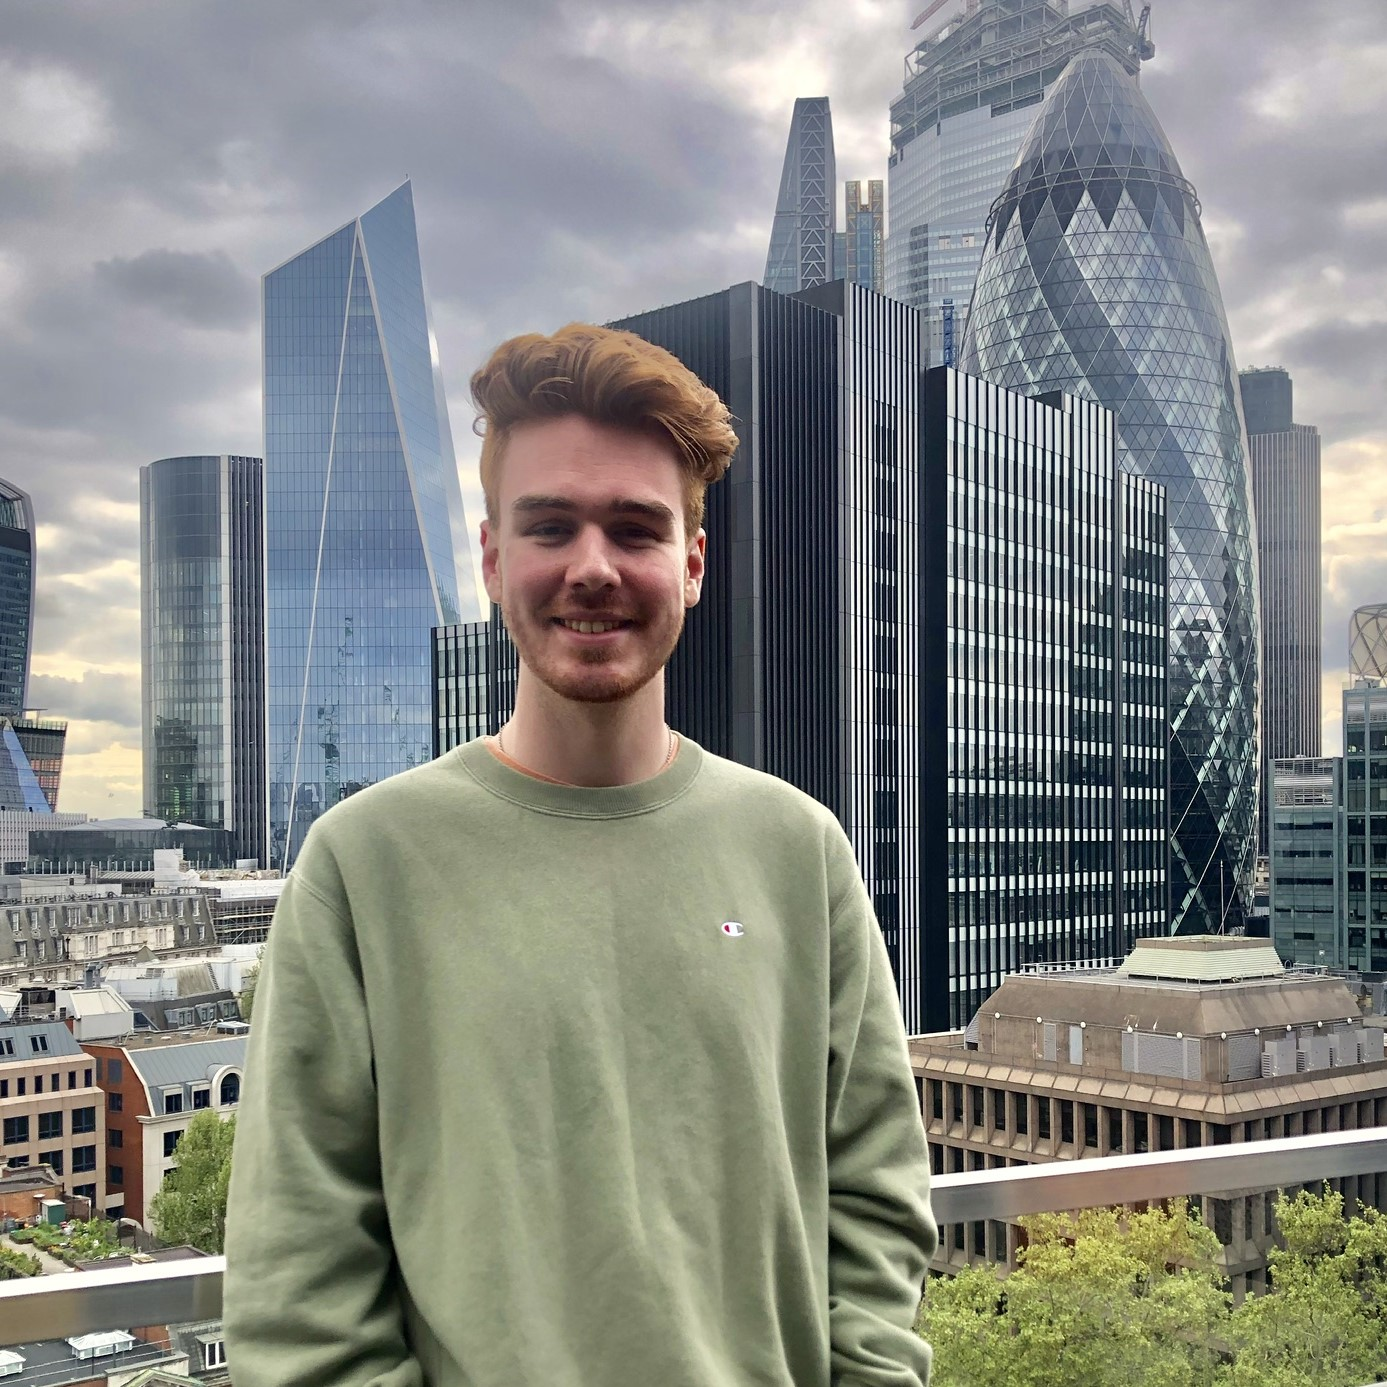
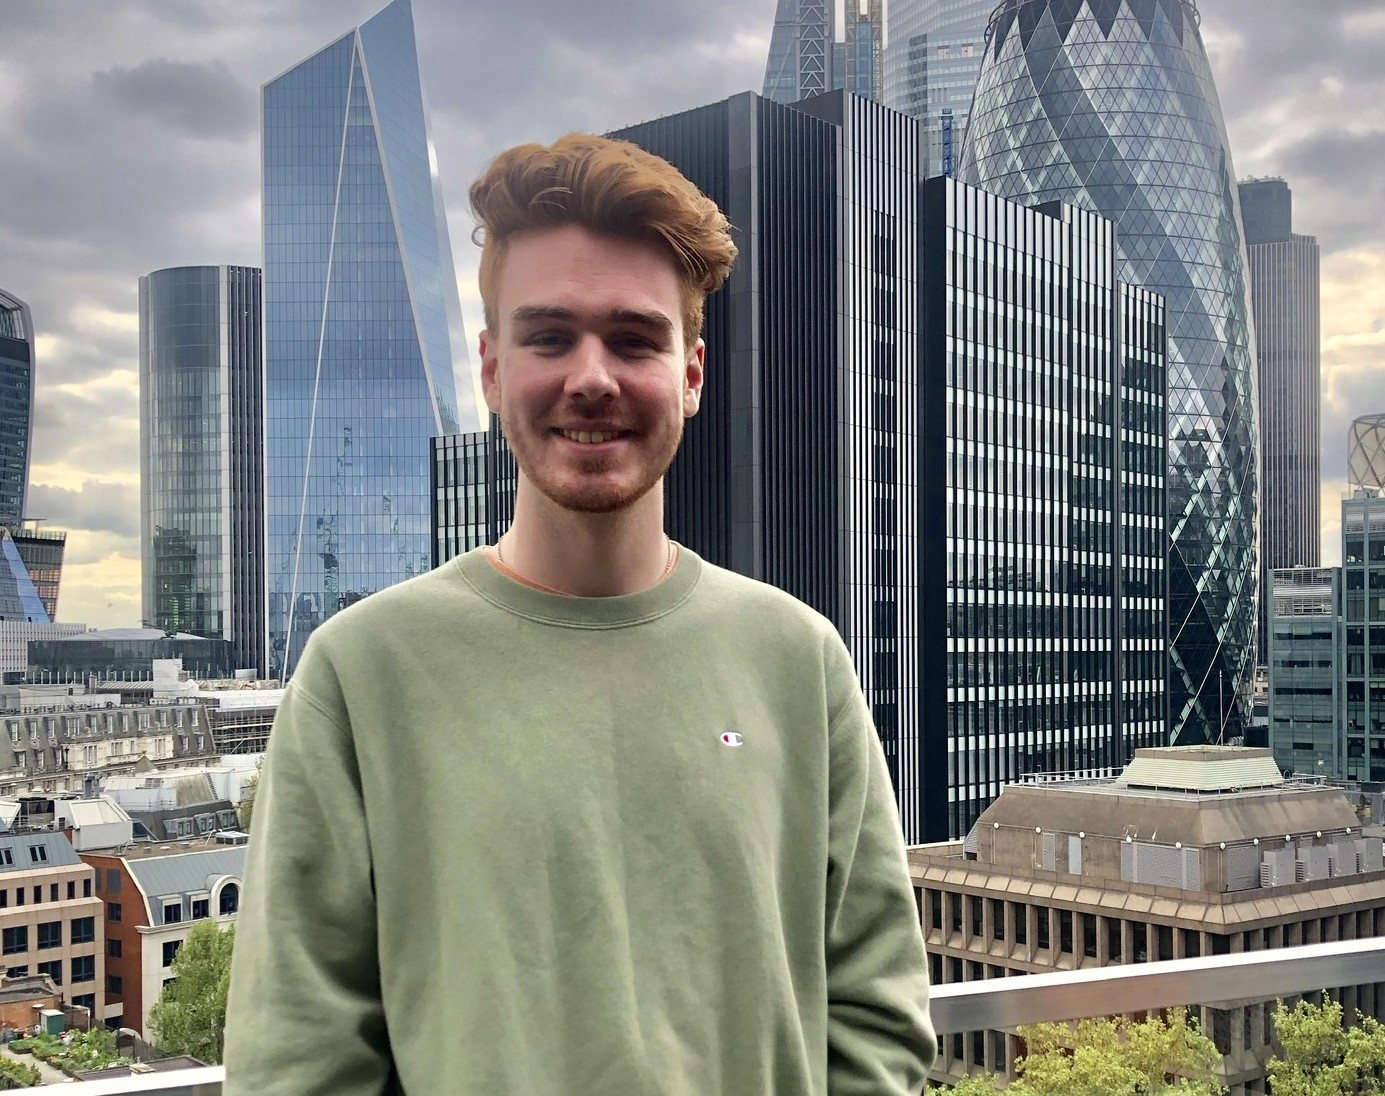
Started on update portfolio

diff --git a/index.html b/index.html
@@ -1,94 +1,20 @@
 <html lang="en">
+    <head>
+        <meta charset="utf-8">
+        <title>Anthony Sturdy</title>
+        <meta name="description" content="Anthony Sturdy is a Games Programming student from the UK.">
+        <meta name="keywords" content="Anthony Sturdy, Programmer, Game Developer, UK, England, Staffordshire University, Games">
+        <link rel="canonical" href="http://anthonysturdy.co.uk/">
+        <link href="index.css" rel="stylesheet" type="text/css">
+    </head>
 
-<head>
-    <meta charset="utf-8">
-    <title>Anthony Sturdy</title>
-    <meta name="description" content="Anthony Sturdy is a Games Programming student from the UK.">
-    <meta name="keywords" content="Anthony Sturdy, Programmer, Game Developer, UK, England, Staffordshire University, Games">
-    <link rel="canonical" href="http://anthonysturdy.co.uk/">
-    <link rel="shortcut icon" href="favicon.ico" type="image/ico" id="favicon">
-    <link href="style.css" rel="stylesheet" type="text/css">
-    <script src="https://ajax.googleapis.com/ajax/libs/jquery/3.4.0/jquery.min.js"></script>
-    <script type="text/javascript" src="scripts.js"></script>
-</head>
-
-<body>
-    <div class="box_line_number"></div>
-    <div class="line_number">
-    	1<br>2<br>3<br>4<br>5<br>6<br>7<br>8<br>9<br>10<br>11<br>12<br>13<br>14<br>15<br>16<br>17<br>18<br>19<br>20<br>21<br>22<br>23<br>24<br>25<br>26<br>27<br>28<br>29<br>30<br>31<br>32<br>33<br>34<br>35<br>36<br>37<br>38<br>39<br>40<br>41<br>42<br>43<br>44<br>45<br>46<br>47<br>48<br>49<br>50<br>51
-    </div>
-    <br>
-    <br>
-    <br>
-    <br>
-    <div class="line_pos_home">
-        <div class="box_highlighted_line"></div>
-    </div>
-    <div class="comment">
-        //Anthony Sturdy
-        <br>
-    </div>
-    <div class="function">
-        <br>
-        <br>
-        <div class="type">class</div><strong> Website</strong><span> {</span>
-        <br>
-        <div class="type">public</div><span>:</span>
-        <div class="tabbed">
-            <div class="type">void</div> <a href="about.html">About</a><span>();</span>
-            <br>
-            <div class="type">void</div> <a href="contact.html">Contact</a><span>();</span>
-            <br>
-            <div class="type">void</div> <a href="portfolio.html">Portfolio</a><span>();</span>
+    <body>
+        <div class = "intro-text">
+            <span style="font-size: 25px; font-weight: 400; color: rgb(200, 200, 200);">Hi.</span><br>
+            <span>I'm Anthony Sturdy,</span><br>
+            <span style="font-size: 41px; font-weight: 400; color: rgb(200, 200, 200);">a games programming student.</span><br>
         </div>
-        <span>}</span>
-    </div>
 
-    <div class="comment">
-        <br>
-        <br>
-        <br>
-        <br>
-        <br>
-        <br>
-        <br>
-        <br>
-        <br>
-        <br>
-        <br>
-        <br>
-        <br>
-        <br>
-        <br>
-        <br>
-        <br>
-        <br>
-        <br>
-        <br>
-        <br>
-        <br>
-        <br>
-        <br>
-        <br>
-        <br>
-        <br>
-        <br>
-        <br>
-        <br>
-        <br>
-        <br>
-        <br>
-        <br>
-        <br>
-        <br>
-        <br>
-        <br>
-        <br>
-        <br>
-        <br>
-        <br>//Copyright Anthony Sturdy © 2019
-        <br>
-    </div>
-</body>
-
+        <img class="intro-picture" src="Images/AnthonySturdy1.jpg">
+    </body>
 </html>

diff --git a/alt-site/index.html b/alt-site/index.html
@@ -1,0 +1,94 @@
+<html lang="en">
+
+<head>
+    <meta charset="utf-8">
+    <title>Anthony Sturdy</title>
+    <meta name="description" content="Anthony Sturdy is a Games Programming student from the UK.">
+    <meta name="keywords" content="Anthony Sturdy, Programmer, Game Developer, UK, England, Staffordshire University, Games">
+    <link rel="canonical" href="http://anthonysturdy.co.uk/">
+    <link rel="shortcut icon" href="favicon.ico" type="image/ico" id="favicon">
+    <link href="style.css" rel="stylesheet" type="text/css">
+    <script src="https://ajax.googleapis.com/ajax/libs/jquery/3.4.0/jquery.min.js"></script>
+    <script type="text/javascript" src="scripts.js"></script>
+</head>
+
+<body>
+    <div class="box_line_number"></div>
+    <div class="line_number">
+    	1<br>2<br>3<br>4<br>5<br>6<br>7<br>8<br>9<br>10<br>11<br>12<br>13<br>14<br>15<br>16<br>17<br>18<br>19<br>20<br>21<br>22<br>23<br>24<br>25<br>26<br>27<br>28<br>29<br>30<br>31<br>32<br>33<br>34<br>35<br>36<br>37<br>38<br>39<br>40<br>41<br>42<br>43<br>44<br>45<br>46<br>47<br>48<br>49<br>50<br>51
+    </div>
+    <br>
+    <br>
+    <br>
+    <br>
+    <div class="line_pos_home">
+        <div class="box_highlighted_line"></div>
+    </div>
+    <div class="comment">
+        //Anthony Sturdy
+        <br>
+    </div>
+    <div class="function">
+        <br>
+        <br>
+        <div class="type">class</div><strong> Website</strong><span> {</span>
+        <br>
+        <div class="type">public</div><span>:</span>
+        <div class="tabbed">
+            <div class="type">void</div> <a href="about.html">About</a><span>();</span>
+            <br>
+            <div class="type">void</div> <a href="contact.html">Contact</a><span>();</span>
+            <br>
+            <div class="type">void</div> <a href="portfolio.html">Portfolio</a><span>();</span>
+        </div>
+        <span>}</span>
+    </div>
+
+    <div class="comment">
+        <br>
+        <br>
+        <br>
+        <br>
+        <br>
+        <br>
+        <br>
+        <br>
+        <br>
+        <br>
+        <br>
+        <br>
+        <br>
+        <br>
+        <br>
+        <br>
+        <br>
+        <br>
+        <br>
+        <br>
+        <br>
+        <br>
+        <br>
+        <br>
+        <br>
+        <br>
+        <br>
+        <br>
+        <br>
+        <br>
+        <br>
+        <br>
+        <br>
+        <br>
+        <br>
+        <br>
+        <br>
+        <br>
+        <br>
+        <br>
+        <br>
+        <br>//Copyright Anthony Sturdy © 2019
+        <br>
+    </div>
+</body>
+
+</html>

diff --git a/index.css b/index.css
@@ -1,0 +1,31 @@
+/* Import Fonts */
+@import url('https://fonts.googleapis.com/css?family=Lato:400,900&display=swap');
+
+p {
+    margin: 0px;
+}
+
+body { 
+    background-color: rgb(10, 10, 10);
+    color: rgb(255, 255, 245);
+}
+
+.intro-text {
+    font-family: 'Lato', sans-serif;
+    font-size: 60px;
+    font-weight: 900;
+    position: relative;
+    left: 10%;
+    top: 280px;
+    padding: 15px;
+    background-color: rgb(23, 23, 23);
+    width: 550px;
+}
+
+.intro-picture {
+    position: absolute;
+    top: 40px;
+    left: 40%;
+    z-index: -1;
+    width: 700px;
+}
